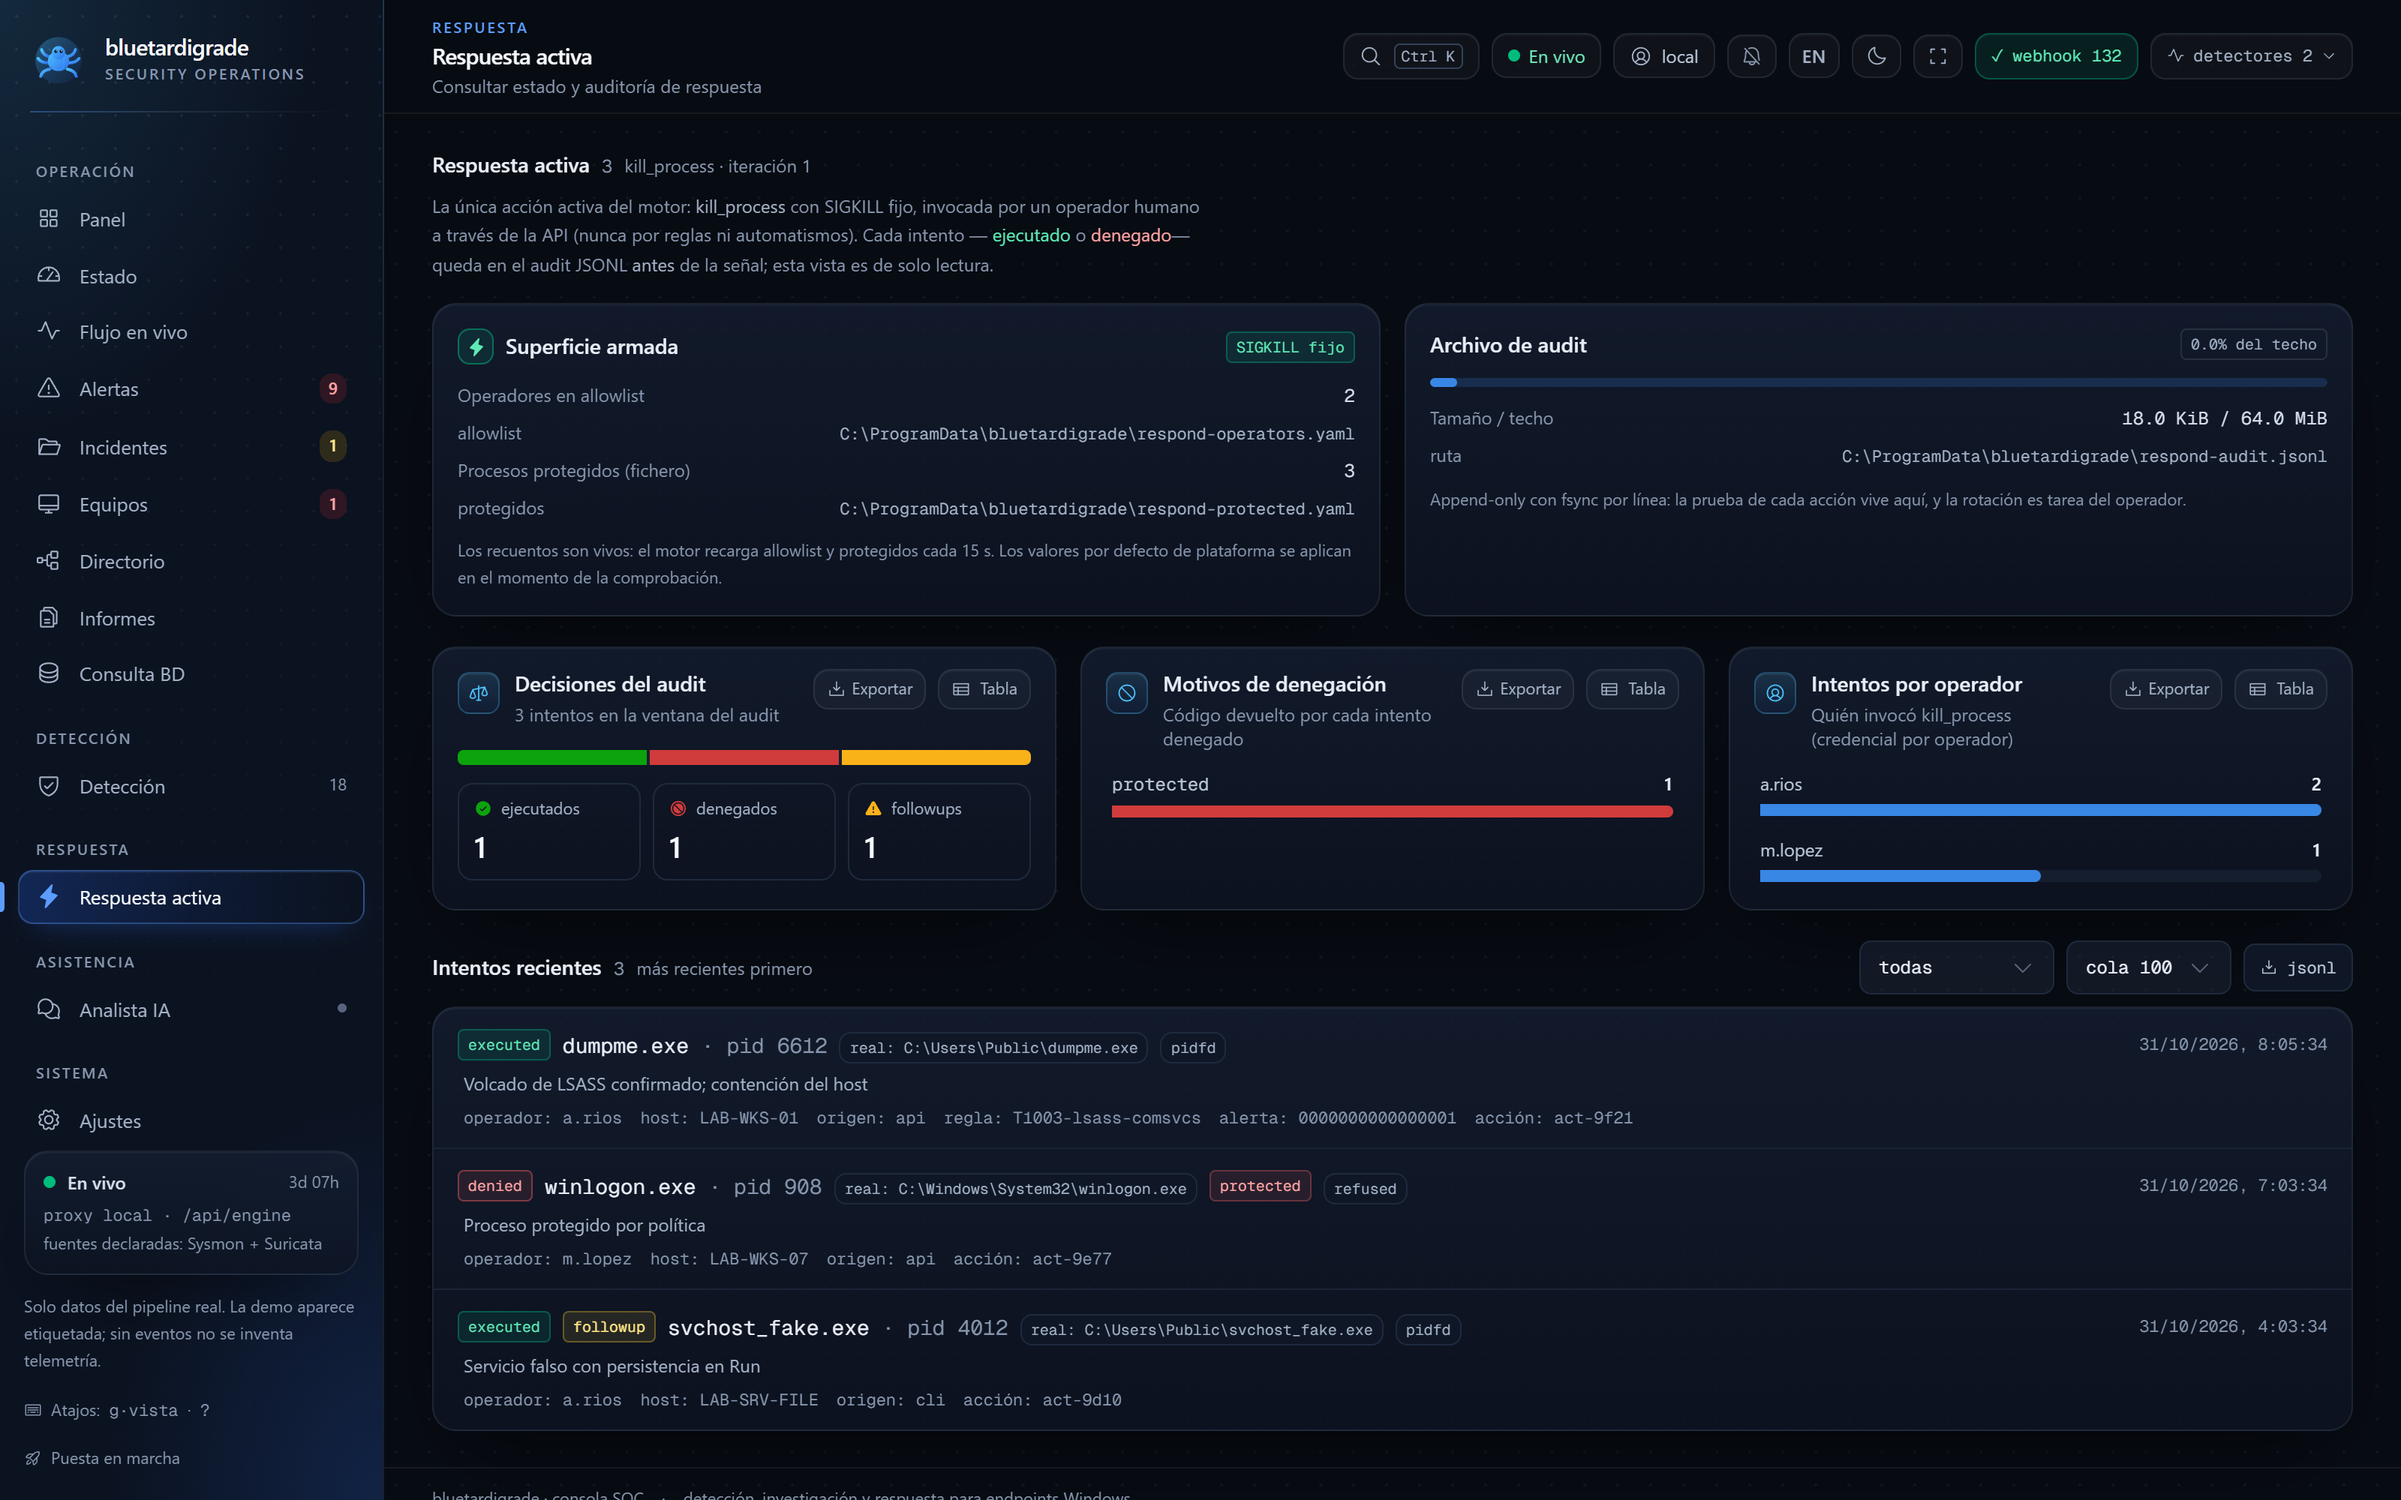
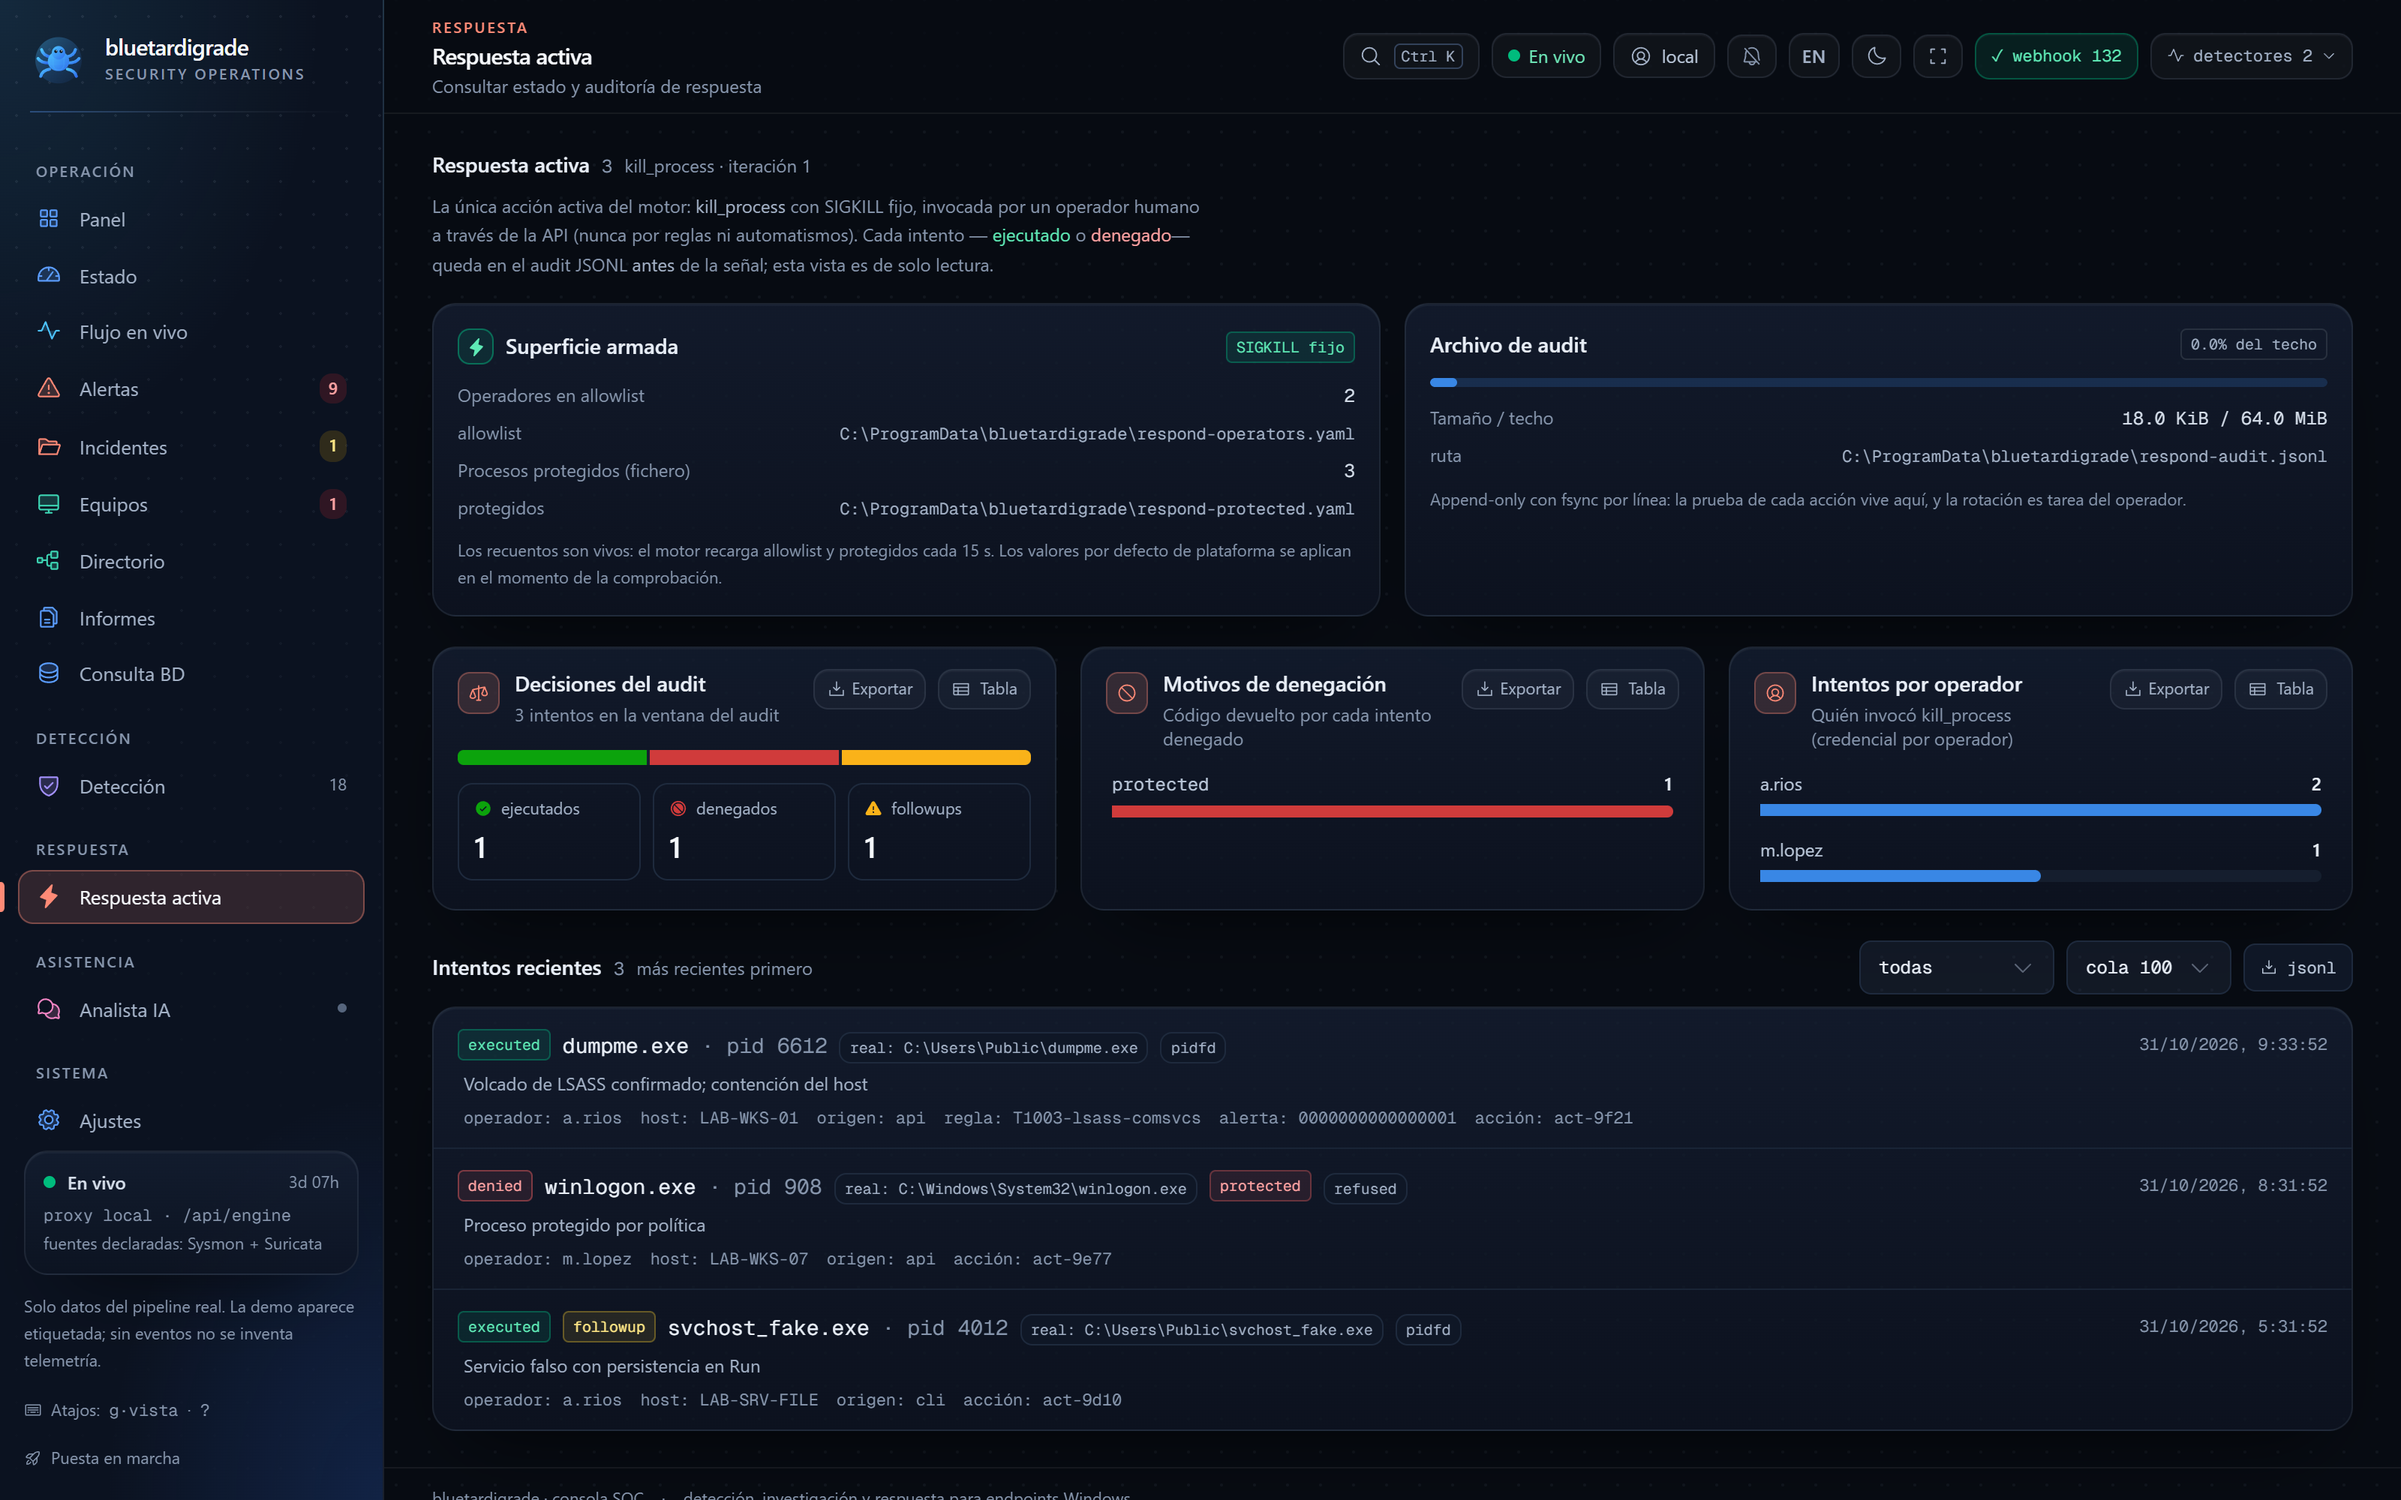
docs: capturas del README con el color por zona y el nuevo Estado
Las quince capturas de escritorio de docs/assets salen de la consola
actual con las fixtures de siempre (equipos LAB-*, sin datos
personales): color por zona en la barra lateral y las tarjetas, y la
página de Estado con el recorrido del evento. Las cuatro del móvil no
cambian. La imagen de portada y el vídeo siguen siendo de la consola
anterior.

diff --git a/changelog.d/docs-console-captures.md b/changelog.d/docs-console-captures.md
@@ -1,1 +1,1 @@
-- **README screenshots retaken from the polished console.** The nineteen `docs/assets/console-*.png` captures (desktop, light theme, NOC and phone) come from the current console through `docs/assets/src/capture_console.mjs` with the contract-true fixtures (LAB-* hosts, no personal data): one-line header, content painted on first load, readable phone queue. The fixtures computed `uptime_s` with their millisecond constants, so the engine read "79000h" running; they now give seconds and the captures show "3d 07h". The hero image and the demo video still show the previous console.
+- **README screenshots retaken from the polished console.** The nineteen `docs/assets/console-*.png` captures (desktop, light theme, NOC and phone) come from the current console (its area colours and the pipeline strip of «Estado» included) through `docs/assets/src/capture_console.mjs` with the contract-true fixtures (LAB-* hosts, no personal data): one-line header, content painted on first load, readable phone queue. The fixtures computed `uptime_s` with their millisecond constants, so the engine read "79000h" running; they now give seconds and the captures show "3d 07h". The hero image and the demo video still show the previous console.
